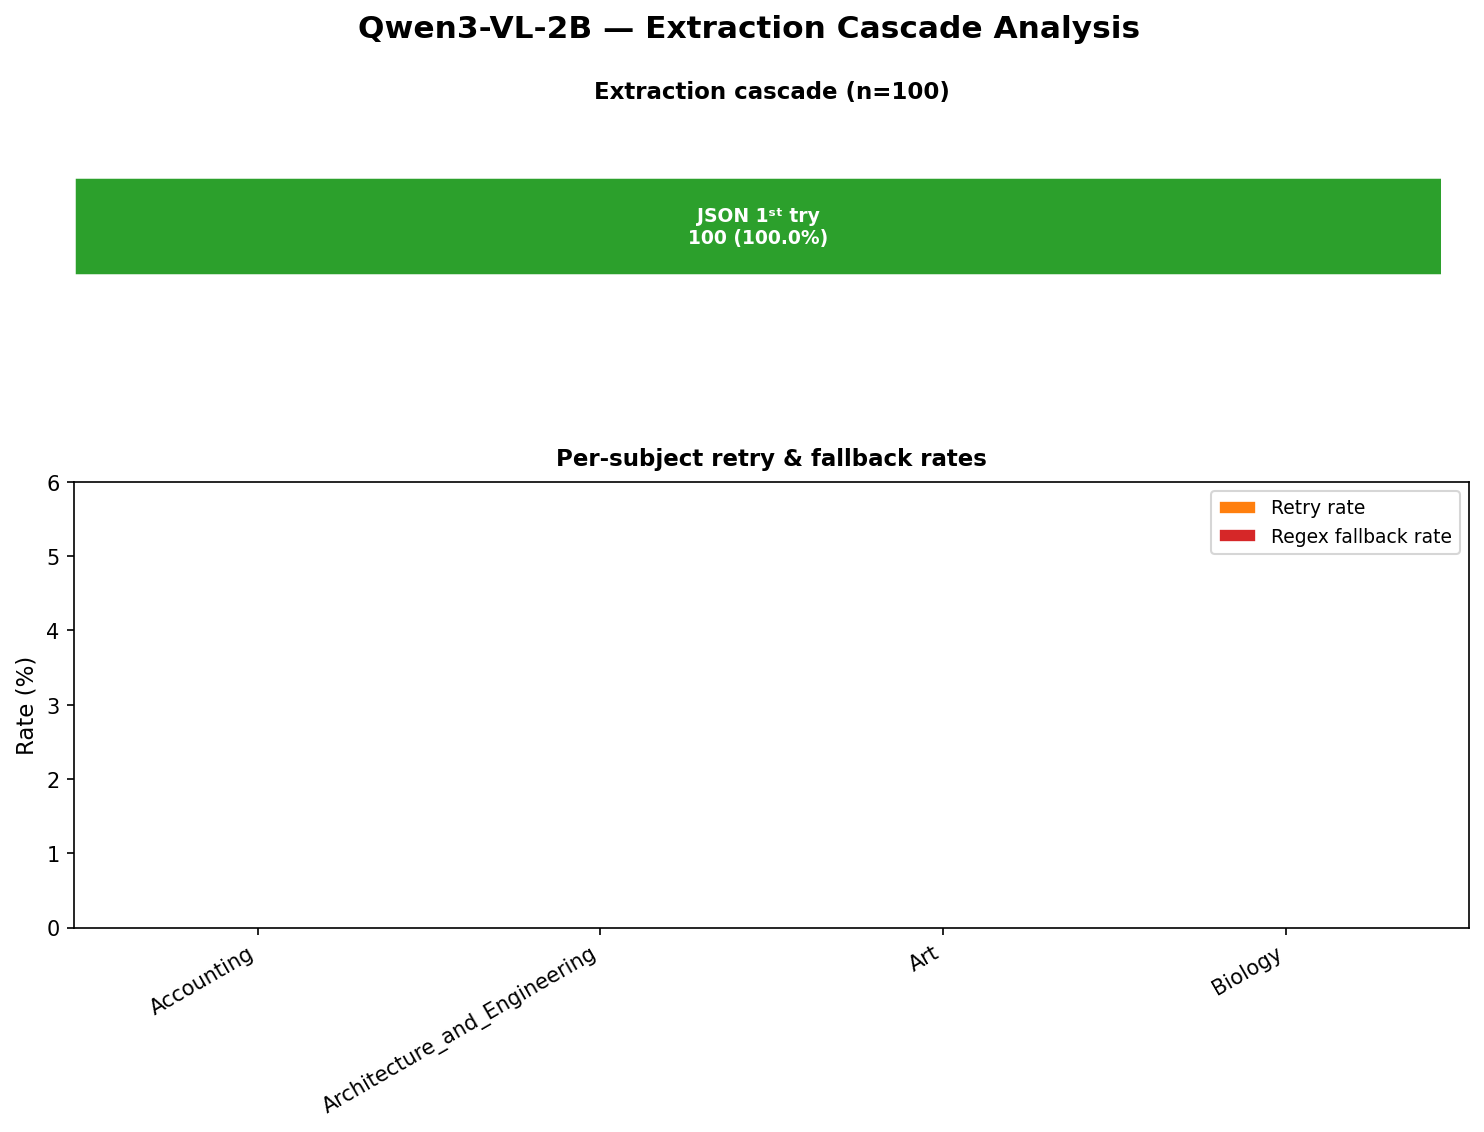
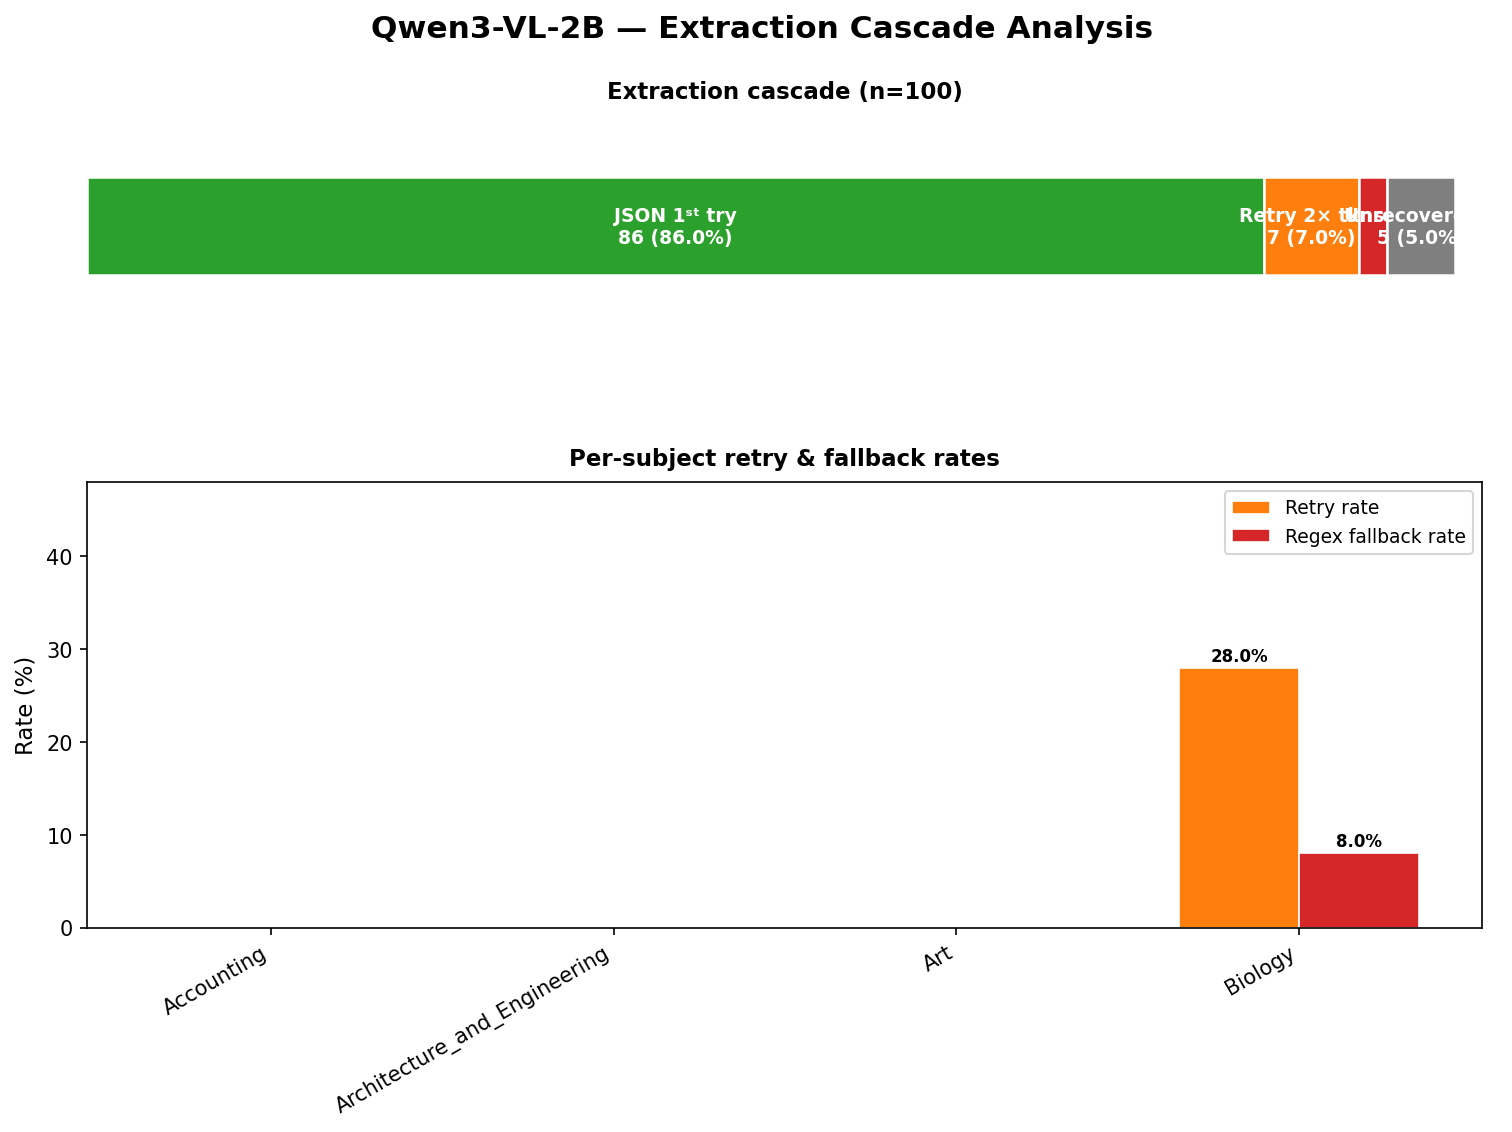
Add skeleton adapter template and enhance evaluation logging
- Introduced a new skeleton adapter template in `src/adapters/_template.py` to streamline the creation of new model adapters.
- Added a `model_name` property to `BaseVLMAdapter` for easy access to the model identifier.
- Enhanced the `evaluate_sample` function in `src/pipeline.py` to include detailed logging of inference attempts, including first try, retry attempts, and regex fallback results.

diff --git a/src/adapters/_template.py b/src/adapters/_template.py
@@ -1,0 +1,96 @@
+"""Skeleton adapter — copy this file and fill in the marked sections.
+
+How to add a new model in 3 minutes:
+    1. Copy this file to  src/adapters/<your_model>.py
+    2. Change the class name and @register_adapter name
+    3. Fill in __init__ (load / authenticate your model)
+    4. Fill in generate_answer (run inference, return raw string)
+    5. Add  from src.adapters import <your_model>  to  __init__.py
+    6. Change  "qwen_local" → "<your_name>"  in  src/main.py
+
+The pipeline, parser, metrics, and visualization layers are untouched.
+"""
+
+from __future__ import annotations
+
+from typing import Any
+
+from PIL import Image
+
+from src.adapters.base import BaseVLMAdapter, register_adapter
+
+
+# ═══════════════════════════════════════════════════════════════════════════
+# 1. Choose a unique name.  This is the string you'll pass to the factory:
+#       adapter = get_model_adapter("my_model_name")
+# ═══════════════════════════════════════════════════════════════════════════
+@register_adapter("CHANGE_ME__provider_name")
+class CHANGE_ME__AdapterClassName(BaseVLMAdapter):
+    """Adapter for <insert model description here>."""
+
+    # ── Initialisation ────────────────────────────────────────────────────
+    def __init__(self, model_id: str | None = None, **kwargs: Any) -> None:
+        """Set up the model, processor/client, and any caches.
+
+        Args:
+            model_id: Optional override for the model identifier.
+            **kwargs: Forward-compatibility slot (ignored).
+        """
+        super().__init__()
+        _ = kwargs  # consume unused kwargs
+
+        # ------------------------------------------------------------------
+        # TODO: store your model identifier (use a sensible default) 
+        # ------------------------------------------------------------------
+        self._model_id: str = model_id or "CHANGE_ME__default_model_id"
+
+        # ------------------------------------------------------------------
+        # TODO: load / authenticate your model
+        #   - Local HF model:  AutoModel.from_pretrained(self._model_id, ...)
+        #   - API client:      your_client = YourSDK(api_key=...)
+        # ------------------------------------------------------------------
+        # self._model = ...
+        # self._processor = ...
+
+        print(f"Adapter '{CHANGE_ME__AdapterClassName.__name__}' ready "
+              f"(model={self._model_id}).")
+
+    # ── Inference ─────────────────────────────────────────────────────────
+    def generate_answer(
+        self,
+        prompt: str,
+        images: list[Image.Image],
+        **kwargs: Any,
+    ) -> str:
+        """Run inference and return the raw model output string.
+
+        Args:
+            prompt: The text prompt (question + choices formatted by
+                ``src.pipeline.build_prompt``).
+            images: PIL images extracted from the MMMU sample.
+            **kwargs: Adapter-specific overrides.  The pipeline always
+                passes ``max_new_tokens`` (int).
+
+        Returns:
+            The raw model output.  This will be sent to ``src.parser``
+            for structured extraction — **do not** parse it yourself.
+        """
+        max_new_tokens: int = kwargs.get("max_new_tokens", 512)
+
+        # ------------------------------------------------------------------
+        # TODO: run inference and return the raw output
+        #
+        #   Local model example (Outlines):
+        #       generator = self._get_cached_generator()
+        #       return generator([formatted_prompt] + image_inputs,
+        #                        max_new_tokens=max_new_tokens).strip()
+        #
+        #   API example (Anthropic / OpenAI):
+        #       response = self._client.messages.create(
+        #           model=self._model_id,
+        #           max_tokens=max_new_tokens,
+        #           messages=[{"role": "user", "content": prompt}],
+        #       )
+        #       return response.content[0].text
+        # ------------------------------------------------------------------
+        raise NotImplementedError("Fill in generate_answer")

diff --git a/src/pipeline.py b/src/pipeline.py
@@ -130,6 +130,10 @@ def evaluate_sample(adapter, sample) -> dict:
         "choices": choices,
         "correct_answer": correct_answer,
         "prompt_sent": prompt,
+        "model_used": adapter.model_name,
+        "first_try": None,
+        "retry_2x": None,
+        "regex_fallback": None,
         "raw_model_response": None,
         "extracted_answer": None,
         "extraction_succeeded": False,
@@ -154,6 +158,13 @@ def evaluate_sample(adapter, sample) -> dict:
         num_opts = len(options)
         extracted, succeeded = extract_answer(raw_answer, num_choices=num_opts, fallback=False)
 
+        record["first_try"] = {
+            "raw_response": raw_answer,
+            "extracted_answer": extracted,
+            "succeeded": succeeded,
+            "inference_time_seconds": round(elapsed, 2),
+        }
+
         retry_time = 0.0
         retry_raw: str | None = None
 
@@ -172,23 +183,36 @@ def evaluate_sample(adapter, sample) -> dict:
             retry_time = time.perf_counter() - retry_start
             elapsed += retry_time
 
-            extracted, succeeded = extract_answer(
+            retry_extracted, retry_succeeded = extract_answer(
                 retry_raw, num_choices=num_opts, fallback=False
             )
+            record["retry_2x"] = {
+                "raw_response": retry_raw,
+                "extracted_answer": retry_extracted,
+                "succeeded": retry_succeeded,
+                "inference_time_seconds": round(retry_time, 2),
+            }
             record["retry_used"] = True
             record["retry_inference_time_seconds"] = round(retry_time, 2)
             raw_answer = retry_raw  # keep the richer response for regex fallback
+            extracted, succeeded = retry_extracted, retry_succeeded
 
         # Step 3: regex fallback (last resort). Uses whichever response
         # has more context — the retry response (2× tokens) if available.
         if not succeeded:
             best_text = retry_raw if retry_raw is not None else raw_answer
-            extracted, succeeded = extract_answer(
+            regex_extracted, regex_succeeded = extract_answer(
                 best_text, num_choices=num_opts, fallback=True
             )
-            if succeeded:
+            record["regex_fallback"] = {
+                "raw_response": best_text,
+                "extracted_answer": regex_extracted,
+                "succeeded": regex_succeeded,
+            }
+            if regex_succeeded:
                 record["used_fallback_extraction"] = True
                 raw_answer = best_text
+                extracted, succeeded = regex_extracted, regex_succeeded
                 print(f"    ⚠  Regex fallback recovered answer for {sample_id}")
             else:
                 print(f"    ❌ All extraction attempts failed for {sample_id}")

diff --git a/src/adapters/base.py b/src/adapters/base.py
@@ -57,6 +57,11 @@ class BaseVLMAdapter(abc.ABC):
     responsible for structured parsing.
     """
 
+    @property
+    def model_name(self) -> str:
+        """The model identifier used by this adapter (e.g. ``"gemma4:e2b"``)."""
+        return getattr(self, "_model_id", "unknown")
+
     @abc.abstractmethod
     def generate_answer(
         self,

diff --git a/diagram.md b/diagram.md
@@ -1,0 +1,146 @@
+# Qwen3-VL MMMU Evaluation Pipeline
+
+```mermaid
+flowchart TD
+    %% Entry point
+    START([start: src/main.py]) --> S1
+
+    %% Stage 1: Resume
+    subgraph S1["Stage 1: Resume State Detection"]
+        direction TB
+        A1["load_completed_sample_ids()"]
+        A2["Read results/trajectories.jsonl"]
+        A3["Scan results/samples/*.json"]
+        A4{"Already at MAX_SAMPLES?"}
+        A1 --> A2 --> A3 --> A4
+    end
+
+    S1 --> S2
+
+    %% Stage 2: Model Loading
+    subgraph S2["Stage 2: Model Loading"]
+        direction TB
+        B1["get_model_adapter('qwen_local')"]
+        B2["Qwen3VLForConditionalGeneration.from_pretrained()"]
+        B3["AutoProcessor.from_pretrained()"]
+        B4["outlines.Generator (JSON schema constrained)"]
+        B1 --> B2 --> B3 --> B4
+    end
+
+    S2 --> S3
+
+    %% Stage 3: Dataset Loading
+    subgraph S3["Stage 3: Dataset Loading"]
+        direction TB
+        C1["MMMU/MMMU validation split"]
+        C2["4 subjects: Accounting, Architecture, Art, Biology"]
+        C3["Stratified sampling: 25 per subject"]
+        C4["Concatenated Dataset (100 samples)"]
+        C1 --> C2 --> C3 --> C4
+    end
+
+    S3 --> S4_LOOP
+
+    %% Stage 4: Per-Sample Loop
+    subgraph S4_LOOP["Stage 4: Per-Sample Evaluation Loop"]
+        direction TB
+
+        subgraph PREP["Sample Preparation"]
+            D1["Extract images (up to 7)"]
+            D2["Parse options string"]
+            D3["Format choices (A-D)"]
+            D4["Build prompt + chat template"]
+            D1 --> D2 --> D3 --> D4
+        end
+
+        PREP --> CASCADE
+
+        subgraph CASCADE["Three-Stage Extraction Cascade"]
+            direction TB
+            E1["Step 1: Primary Inference\nmax_new_tokens=1024"]
+            E2{"Valid JSON?"}
+            E3["Step 2: Retry Inference\nmax_new_tokens=2048"]
+            E4{"Valid JSON?"}
+            E5["Step 3: Regex Fallback\npattern matching on raw text"]
+            E6{"Answer extracted?"}
+            E7["SUCCESS\nPydantic ModelResponse"]
+            E8["FAILURE\nextraction_succeeded=false"]
+
+            E1 --> E2
+            E2 -- yes --> E7
+            E2 -- no --> E3
+            E3 --> E4
+            E4 -- yes --> E7
+            E4 -- no --> E5
+            E5 --> E6
+            E6 -- yes --> E7
+            E6 -- no --> E8
+        end
+
+        CASCADE --> PERSIST
+
+        subgraph PERSIST["Persist & Cleanup"]
+            F1["Save results/samples/sample_id.json"]
+            F2["Append to results/trajectories.jsonl"]
+            F3["Close PIL images + torch.cuda.empty_cache()"]
+            F1 --> F2 --> F3
+        end
+    end
+
+    S4_LOOP -- "next uncompleted sample" --> S4_LOOP
+    S4_LOOP -- "all samples done" --> S5
+
+    %% Stage 5: Finalization
+    subgraph S5["Stage 5: Finalization"]
+        direction TB
+        G1["rebuild_jsonl_from_samples()"]
+        G2["compute_summary()"]
+        G3["Save results/summary.json"]
+        G4["plot_accuracy_chart()"]
+        G5["plot_runtime_metrics()"]
+        G6["plot_fallback_analysis()"]
+        G1 --> G2 --> G3
+        G2 --> G4
+        G2 --> G5
+        G2 --> G6
+    end
+
+    %% Outputs
+    S5 --> OUTPUTS
+
+    subgraph OUTPUTS["Outputs"]
+        H1["results/summary.json"]
+        H2["results/accuracy_chart.png"]
+        H3["results/runtime_metrics.png"]
+        H4["results/fallback_analysis.png"]
+    end
+
+    %% Resume feedback loop
+    S4_LOOP -. "writes to disk" .-> RESUME_FEED["results/trajectories.jsonl\nresults/samples/*.json"]
+    RESUME_FEED -. "read on restart" .-> S1
+
+    %% Styling
+    style START fill:#4a9,stroke:#333,color:#fff
+    style S1 fill:#e8f0fe,stroke:#4285f4
+    style S2 fill:#fce8e6,stroke:#ea4335
+    style S3 fill:#e6f4ea,stroke:#34a853
+    style S4_LOOP fill:#fff3e0,stroke:#fbbc04
+    style S5 fill:#f3e8fd,stroke:#9334e6
+    style OUTPUTS fill:#e0f7fa,stroke:#0097a7
+    style RESUME_FEED fill:#f5f5f5,stroke:#999
+    style E7 fill:#c8e6c9,stroke:#2e7d32,color:#1b5e20
+    style E8 fill:#ffcdd2,stroke:#c62828,color:#b71c1c
+```
+
+## Key Metrics (latest run)
+
+| Metric | Value |
+|---|---|
+| Model | Qwen3-VL-2B-Instruct |
+| Samples | 100 (25 per subject) |
+| Overall Accuracy | 41% |
+| Parse Failure Rate | 0% |
+| Avg Inference Time | 7.05s |
+| Total Runtime | ~11.7 min |
+| Best Subject | Art (56%) |
+| Worst Subject | Architecture & Engineering (28%) |
